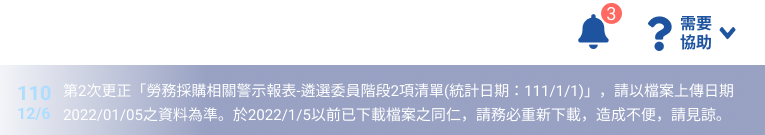
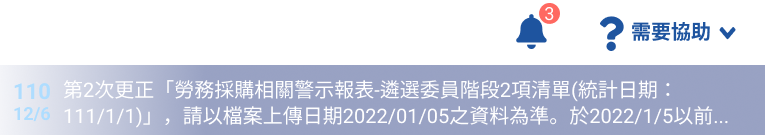
master page update

Changed region(s): [[0.0, 0.5926, 0.9621, 0.7407], [0.0, 0.7704, 0.9621, 0.9481], [0.6614, 0.0296, 0.932, 0.3852]]

diff --git a/WraDashboard/css/style.css b/WraDashboard/css/style.css
@@ -49,13 +49,11 @@ body.demo {
     opacity: 0;
 }
 
-.demo-aside {
-    background: #1E549F url(../images/demo/demo-menu-open.png) 0 0 no-repeat;
-}
-
 .demo-header {
-    height: 135px;
+    /* height: 135px; */
+    height: 90px;
     background: #2E74CD url(../images/demo/demo-header-bg.png) 0 0 repeat-x;
+    background-size: auto 100%;
 }
 
 .demo-header a {
@@ -65,15 +63,64 @@ body.demo {
 }
 
 .demo-logo {
-    width: 443px;
-    height: 127px;
+    /* width: 443px;
+    height: 127px; */
+    width: 355px;
+    height: 90px;
     background: url(../images/demo/demo-logo.png) 15px 0 no-repeat;
+    background-size: 80%;
 }
 
 .demo-user-help {
-    width: calc(100vw - 300px - 443px);
-    height: 135px;
+    /* height: 135px; */
+    height: 90px;
     background: url(../images/demo/demo-header-right.png) 100% 100% no-repeat;
+    background-size: auto 100%;
+}
+
+.page[data-menu="open"] .demo-user-help {
+    width: calc(100vw - 240px - 365px);
+}
+
+.page[data-menu="close"] .demo-user-help {
+    width: calc(100vw - 64px - 365px);
+}
+
+.page[data-menu="open"] .demo-aside {
+    background: #1E549F url(../images/demo/demo-menu-open.png) 0 5px no-repeat;
+    background-size: 100%;
+    cursor: pointer;
+}
+
+.page[data-menu="close"] .demo-aside {
+    background: #1E549F url(../images/demo/demo-menu-close.png) 0 5px no-repeat;
+    background-size: 310px auto;
+    cursor: pointer;
+}
+
+.demo-float-sub-menu {
+    position: absolute;
+    top: 250px;
+    width: 80px;
+    height: 80px;
+    /* background-color: rgba(0, 0, 0, .5); */
+}
+
+.demo-float-sub-menu::after {
+    content: "";
+    display: none;
+    position: absolute;
+    left: 72px;
+    top: 15px;
+    z-index: 10;
+    width: 240px;
+    height: 410px;
+    background: url(../images/demo/demo-float-sub0menu.png) 0 0 no-repeat;
+    background-size: 100%;
+}
+
+.page[data-menu="close"] .demo-float-sub-menu:hover::after {
+    display: block;
 }
 
 
@@ -98,10 +145,21 @@ caption {
 .page {
     display: grid;
     height: 100vh;
-    grid-template-rows: 135px auto 1fr;
-    grid-template-columns: 300px 1fr;
+    /* grid-template-rows: 135px auto 1fr; */
+    grid-template-rows: 90px auto 1fr;
+    /* grid-template-columns: 300px 1fr; */
     grid-template-areas: "aside header" "aside breadcrumb" "aside main";
     grid-gap: 0;
+}
+
+.page[data-menu="open"] {
+    grid-template-columns: 250px 1fr;
+    transition: .5s all;
+}
+
+.page[data-menu="close"] {
+    grid-template-columns: 72px 1fr;
+    transition: .5s all;
 }
 
 .page>header {

diff --git a/WraDashboard/dashboard_預算控管人員.html b/WraDashboard/dashboard_預算控管人員.html
@@ -30,8 +30,9 @@
         <a href="dashboard_預算控管人員.html#page" class="active">預算控管人員</a>
     </div>
 
-    <div class="page" id="page">
-        <aside class="demo-aside">
+    <div class="page" data-menu="open" id="page">
+        <aside class="demo-aside" onclick="toggleMenu()">
+            <nav class="demo-float-sub-menu"></nav>
         </aside>
         <header class="demo-header">
             <a href="#" class="flex">
@@ -222,18 +223,6 @@
                     </div>
 
                 </div>
-
-                <script>
-                    // for demo
-                    function toggleChart() {
-                        var domOver = document.getElementById('chartBudgetRequestOver');
-                        var domUnder = document.getElementById('chartBudgetRequestUnder');
-                        domOver.classList.toggle('demo-show');
-                        domOver.classList.toggle('demo-hide');
-                        domUnder.classList.toggle('demo-show');
-                        domUnder.classList.toggle('demo-hide');
-                    }
-                </script>
 
                 <div class="col col-1 section-company relative">
                     <h2 class="title">廠商資訊</h2>

diff --git a/WraDashboard/js/common.js b/WraDashboard/js/common.js
@@ -1,3 +1,34 @@
+//for demo ( fake menu toggle )
+
+function toggleMenu() {
+    var dom = document.getElementsByClassName('page');
+    var isOpen = dom[0].dataset.menu == "open";
+    if (isOpen) {
+        dom[0].dataset.menu = 'close';
+    } else {
+        dom[0].dataset.menu = 'open';
+    }
+}
+
+function setToggleMenu() {
+    var cookieMenu = document.cookie.toggleMenu;
+    if (cookieMenu == 'open') {
+        document.cookie.toggleMenu = 'close';
+    } else {
+        document.cookie = 'toggleMenu=open';
+    }
+}
+setToggleMenu();
+
+function toggleChart() {
+    var domOver = document.getElementById('chartBudgetRequestOver');
+    var domUnder = document.getElementById('chartBudgetRequestUnder');
+    domOver.classList.toggle('demo-show');
+    domOver.classList.toggle('demo-hide');
+    domUnder.classList.toggle('demo-show');
+    domUnder.classList.toggle('demo-hide');
+}
+
 //-------------- Common Function -------------------
 
 

diff --git a/WraDashboard/dashboard_主督辦.html b/WraDashboard/dashboard_主督辦.html
@@ -30,8 +30,9 @@
         <a href="dashboard_預算控管人員.html#page">預算控管人員</a>
     </div>
 
-    <div class="page" id="page">
-        <aside class="demo-aside">
+    <div class="page" data-menu="open" id="page">
+        <aside class="demo-aside" onclick="toggleMenu()">
+            <nav class="demo-float-sub-menu"></nav>
         </aside>
         <header class="demo-header">
             <a href="#" class="flex">

diff --git a/WraDashboard/dashboard_系統控管人員.html b/WraDashboard/dashboard_系統控管人員.html
@@ -30,8 +30,9 @@
         <a href="dashboard_預算控管人員.html#page">預算控管人員</a>
     </div>
 
-    <div class="page" id="page">
-        <aside class="demo-aside">
+    <div class="page" data-menu="open" id="page">
+        <aside class="demo-aside" onclick="toggleMenu()">
+            <nav class="demo-float-sub-menu"></nav>
         </aside>
         <header class="demo-header">
             <a href="#" class="flex">

diff --git a/WraDashboard/dashboard_高階主管.html b/WraDashboard/dashboard_高階主管.html
@@ -30,8 +30,9 @@
         <a href="dashboard_預算控管人員.html#page">預算控管人員</a>
     </div>
 
-    <div class="page" id="page">
-        <aside class="demo-aside">
+    <div class="page" data-menu="open" id="page">
+        <aside class="demo-aside" onclick="toggleMenu()">
+            <nav class="demo-float-sub-menu"></nav>
         </aside>
         <header class="demo-header">
             <a href="#" class="flex">

diff --git a/WraDashboard/dashboard_組室窗口.html b/WraDashboard/dashboard_組室窗口.html
@@ -31,8 +31,9 @@
     </div>
 
 
-    <div class="page" id="page">
-        <aside class="demo-aside">
+    <div class="page" data-menu="open" id="page">
+        <aside class="demo-aside" onclick="toggleMenu()">
+            <nav class="demo-float-sub-menu"></nav>
         </aside>
         <header class="demo-header">
             <a href="#" class="flex">

diff --git a/WraDashboard/dashboard_組長科長局長課長.html b/WraDashboard/dashboard_組長科長局長課長.html
@@ -31,8 +31,9 @@
     </div>
 
 
-    <div class="page" id="page">
-        <aside class="demo-aside">
+    <div class="page" data-menu="open" id="page">
+        <aside class="demo-aside" onclick="toggleMenu()">
+            <nav class="demo-float-sub-menu"></nav>
         </aside>
         <header class="demo-header">
             <a href="#" class="flex">
